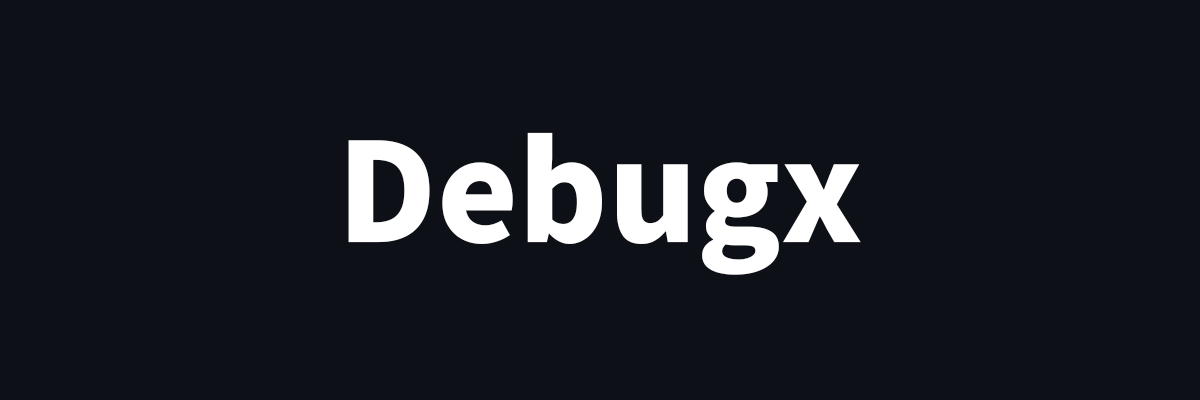
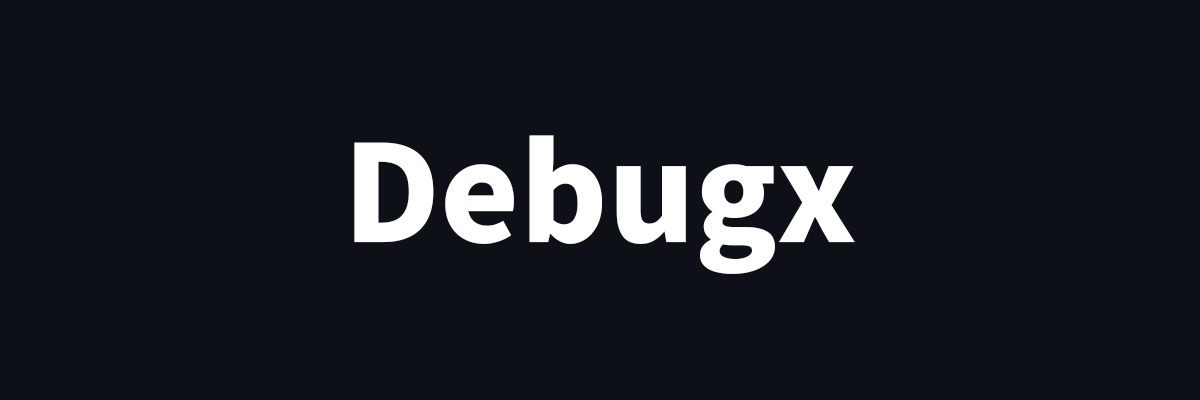
【Bugfix】 移除重复的 LogOutput。

diff --git a/Assets/Plugins/Debugx/Runtime/DebugxManager.cs b/Assets/Plugins/Debugx/Runtime/DebugxManager.cs
@@ -19,11 +19,11 @@ namespace DebugxLog
         {
             get
             {
-                if (_instance == null)
+                if (!_instance)
                 {
                     _instance = FindObjectOfType<DebugxManager>();
 
-                    if (_instance == null)
+                    if (!_instance)
                     {
                         _gameObject = new GameObject { name = typeof(DebugxManager).Name };
                         _instance = _gameObject.AddComponent<DebugxManager>();
@@ -39,9 +39,9 @@ namespace DebugxLog
         [RuntimeInitializeOnLoadMethod]
         private static void CheckInstance()
         {
-            if (_instance == null && Application.isPlaying)
+            if (!_instance && Application.isPlaying)
             {
-                DebugxManager.Instance.Create();
+                Instance.Create();
             }
         }
         

diff --git a/~DebugxDll/Debugx/LogOutput.cs b/~DebugxDll/Debugx/LogOutput.cs
@@ -11,7 +11,7 @@ namespace DebugxLog.Tools
     /// Utility class for outputting logs to a local .txt file.
     /// 输出Log到本地txt文件工具类。
     /// </summary>
-    public class LogOutput
+    public static class LogOutput
     {
         private static DebugxProjectSettings Settings => DebugxProjectSettings.Instance;
         private static bool Enable => Settings.logOutput;